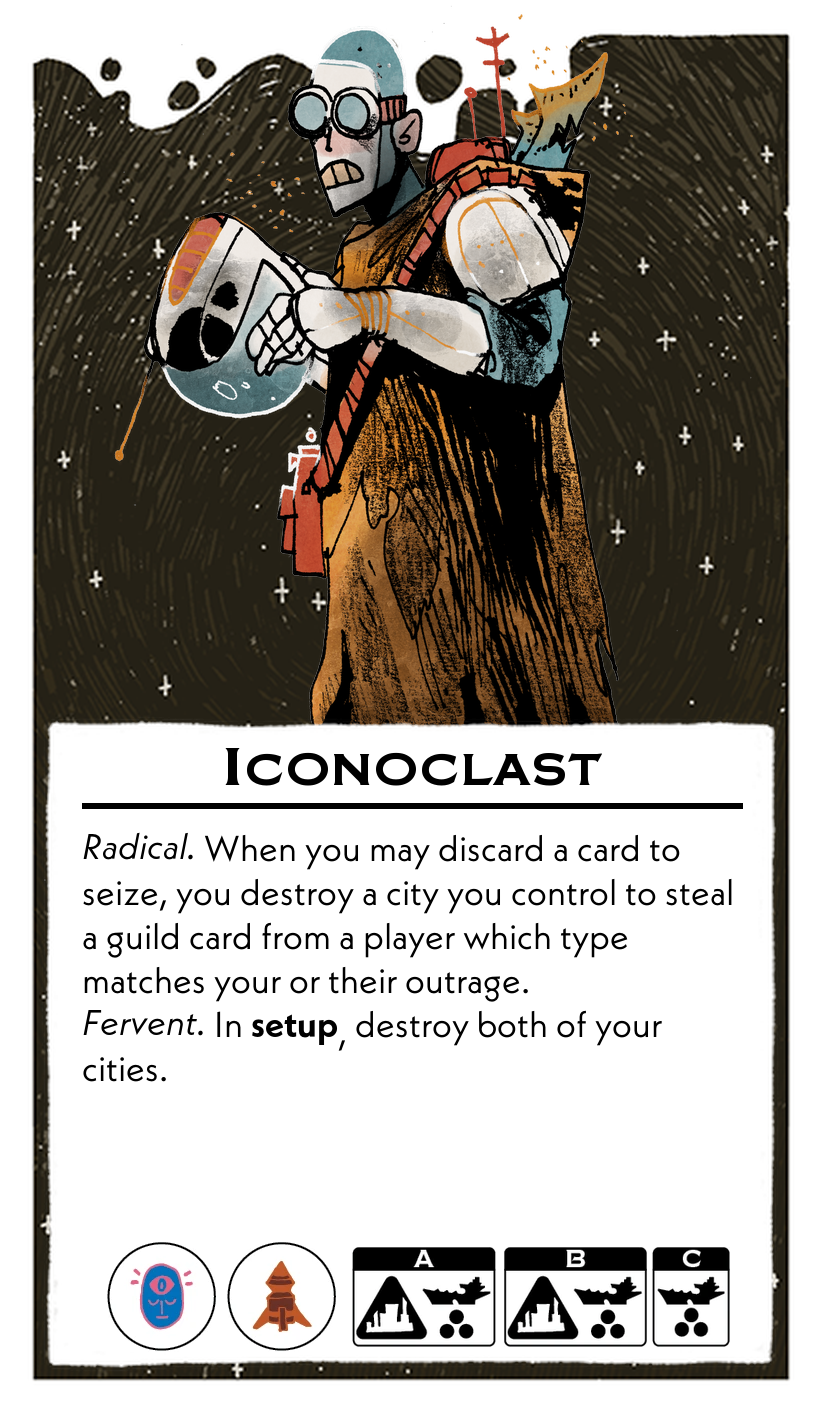
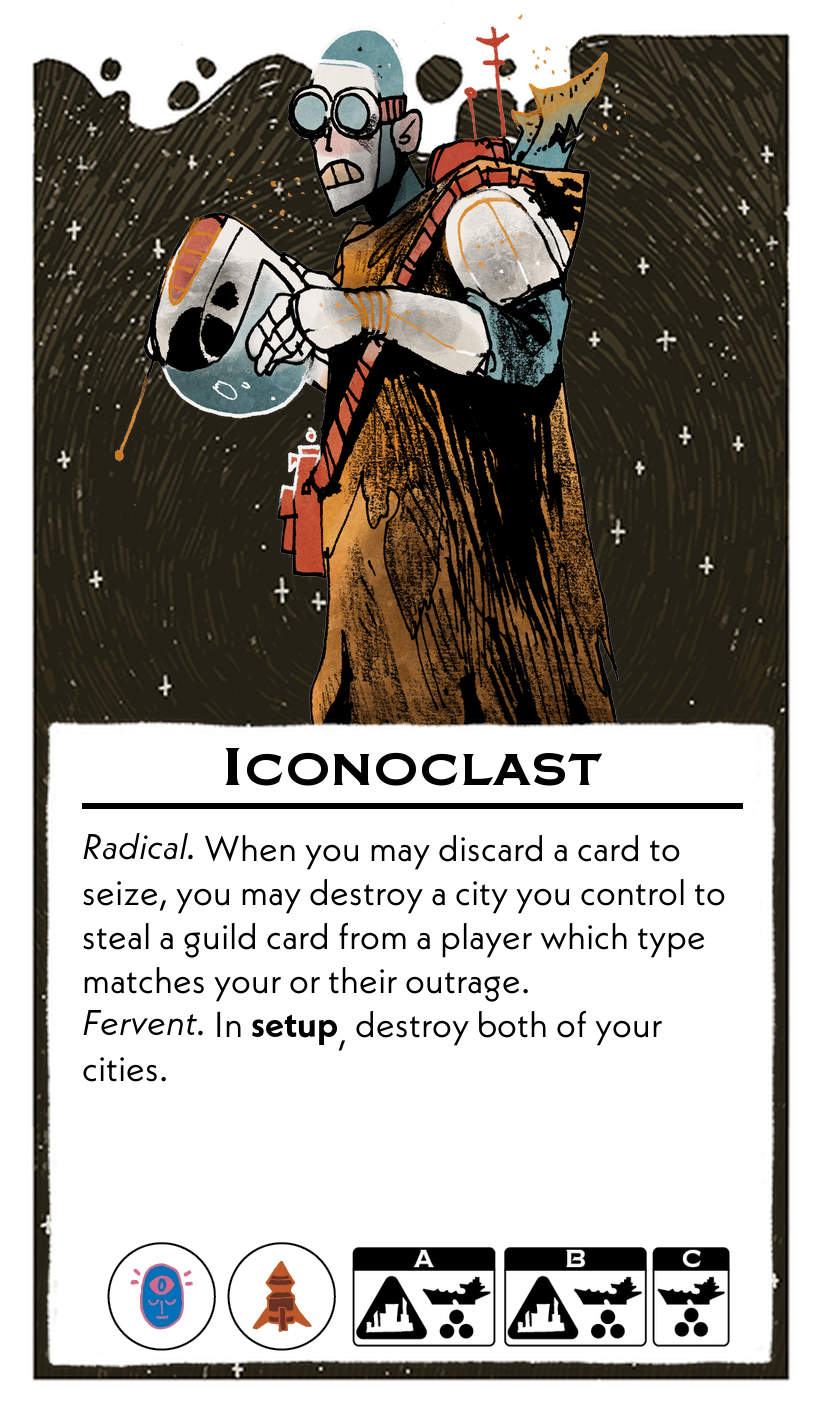
m

Changed region(s): [[0.0912, 0.6223, 0.882, 0.6846]]

diff --git a/scripts/leadersFormatted.py b/scripts/leadersFormatted.py
@@ -377,8 +377,8 @@ leaders = [
     {
         "name": "Herald",
         "abilities": (
-            "*Farsighted.* After you **secure** a card discard it without effect, then look at the top 3 cards of the Court deck, secure 1, put 1 in the court and bury 1.\n"
-            "*Hasty.* After you discard a guild card with it's Prelude action, shuffle it back into the court deck. "
+            "*Baneful.* After you **secure** a card discard it without effect, then look at the top 3 cards of the Court deck, secure 1, put 1 in the court and bury 1.\n"
+            "*Scathing.* After you discard a guild card with it's Prelude action, shuffle it back into the court deck. "
         ),
         "resources": ["Psionic", "Relic"],
         "setup": {
@@ -629,7 +629,7 @@ leaders = [
     {
         "name": "Iconoclast",
         "abilities": (
-            "*Radical.* When you may discard a card to seize, you destroy a city you control to steal a guild card from a player which type matches your or their outrage.\n"
+            "*Radical.* When you may discard a card to seize, you may destroy a city you control to steal a guild card from a player which type matches your or their outrage.\n"
             "*Fervent.* In **setup**, destroy both of your cities."
         ),
         "resources": ["Psionic", "Weapon"],
